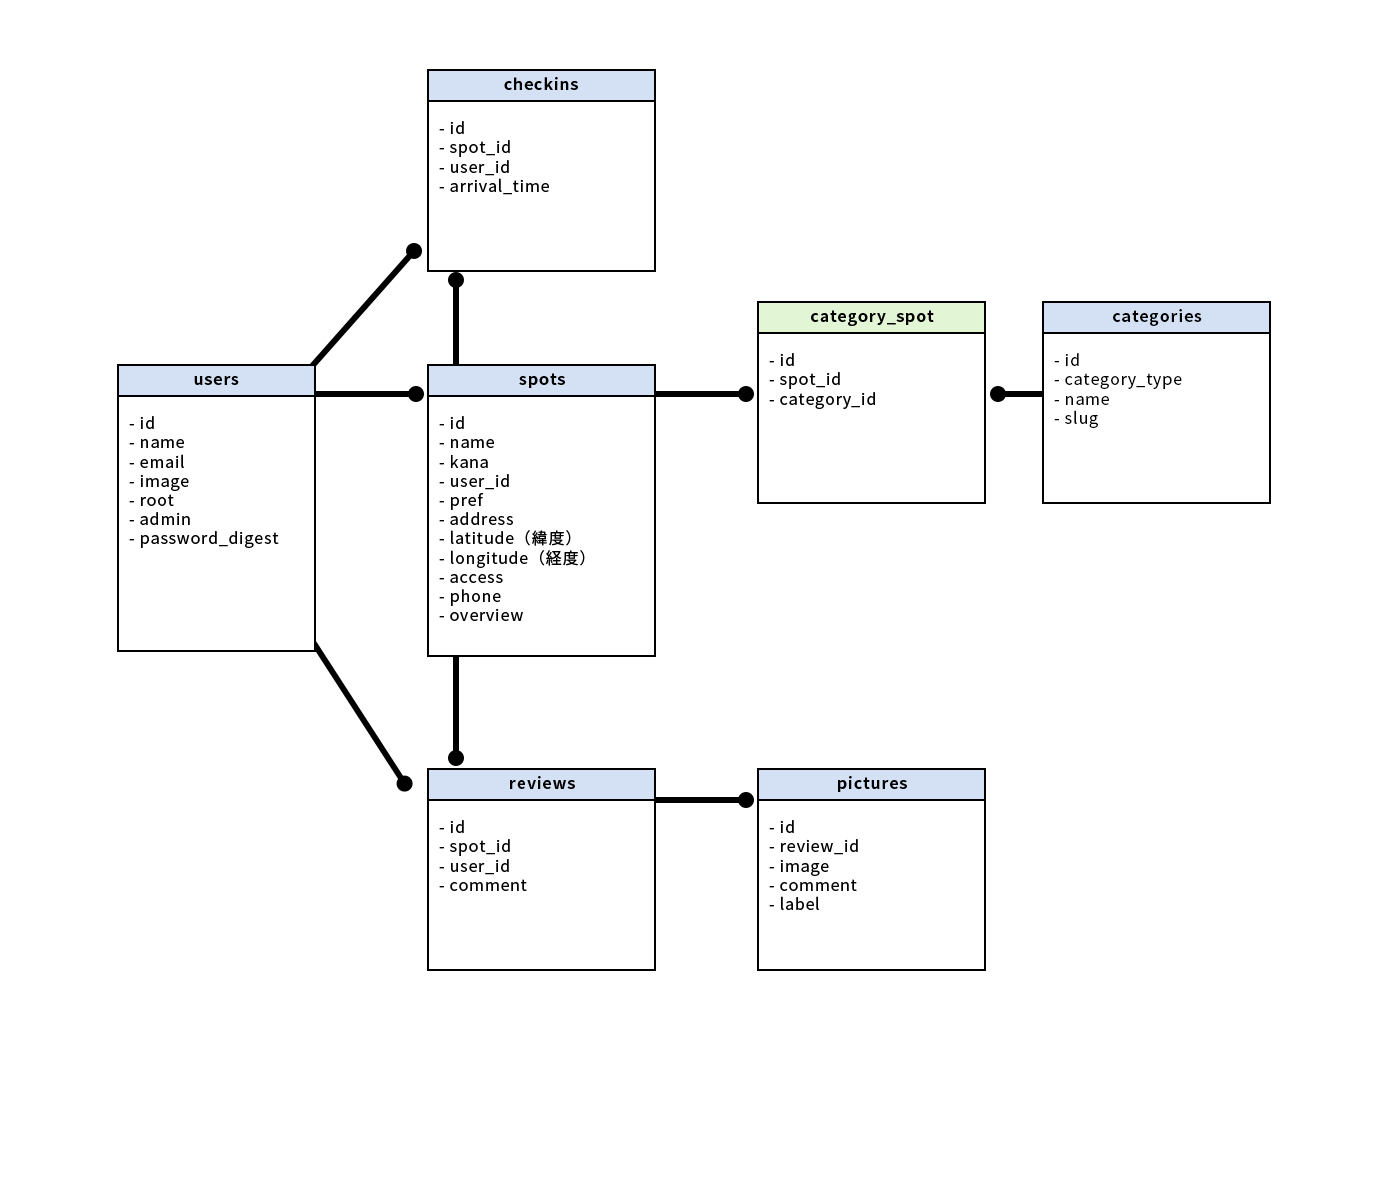
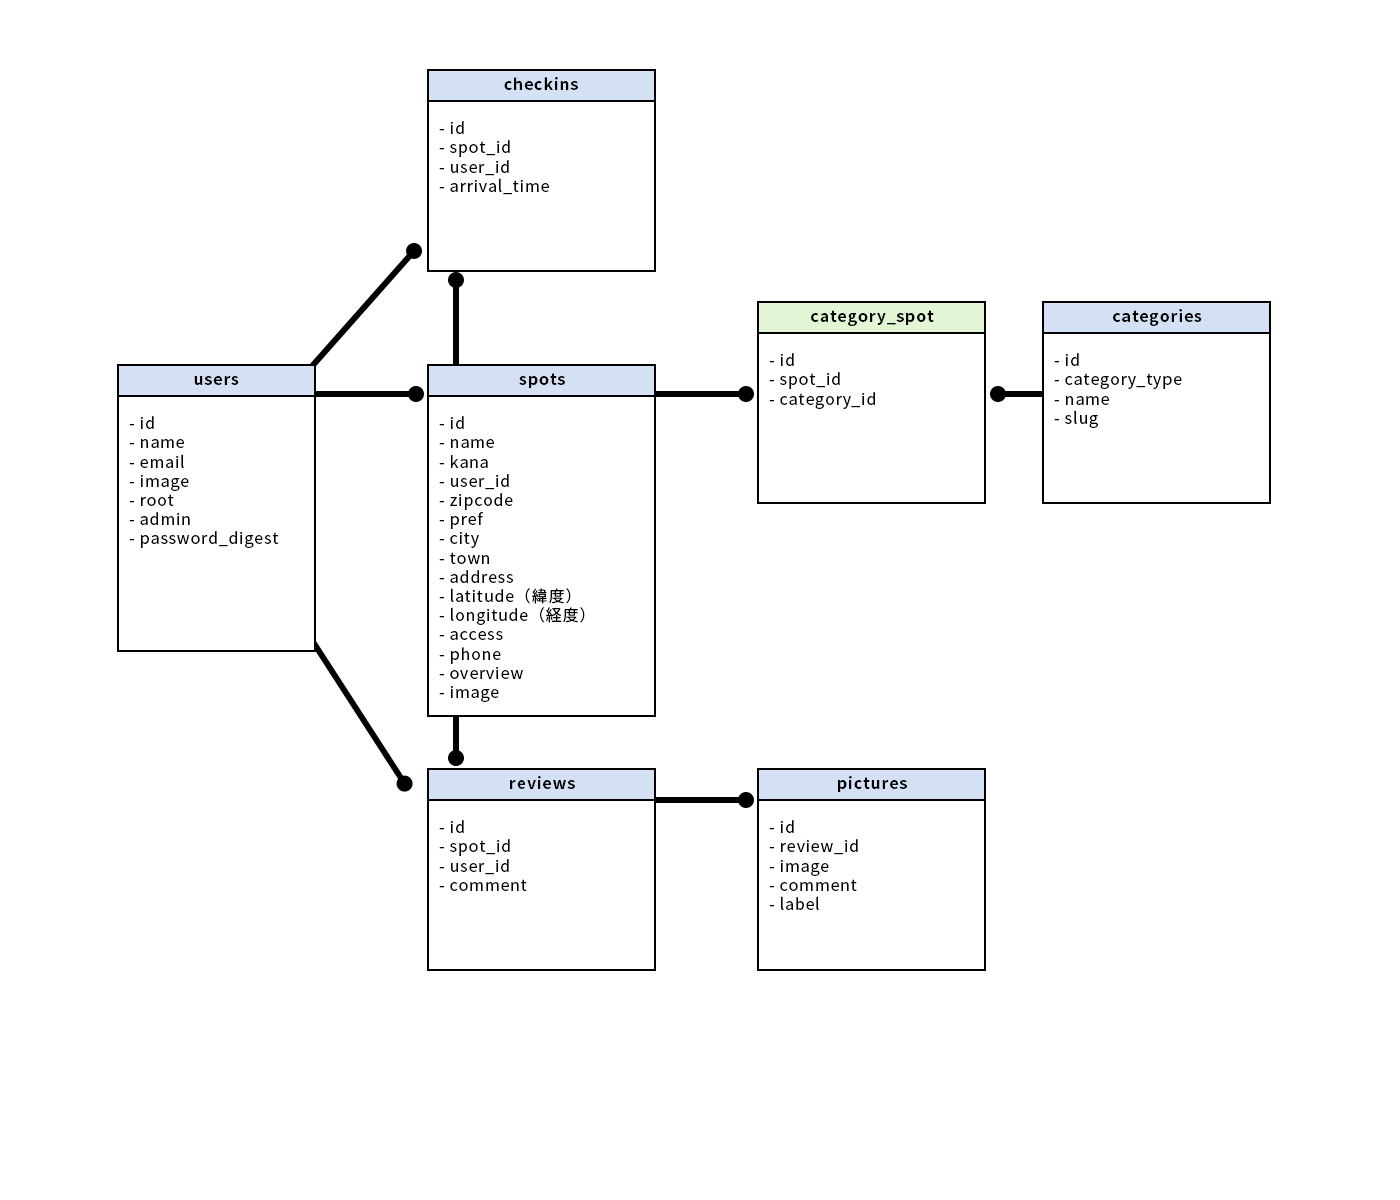
change setting

diff --git a/db/schema.rb b/db/schema.rb
@@ -12,7 +12,7 @@
 
 ActiveRecord::Schema.define(version: 20180930133221) do
 
-  create_table "categories", force: :cascade, options: "ENGINE=InnoDB DEFAULT CHARSET=utf8" do |t|
+  create_table "categories", force: :cascade, options: "ENGINE=InnoDB DEFAULT CHARSET=utf8mb4" do |t|
     t.string "category_type"
     t.string "name"
     t.string "slug"
@@ -20,7 +20,7 @@ ActiveRecord::Schema.define(version: 20180930133221) do
     t.datetime "updated_at", null: false
   end
 
-  create_table "category_spots", force: :cascade, options: "ENGINE=InnoDB DEFAULT CHARSET=utf8" do |t|
+  create_table "category_spots", force: :cascade, options: "ENGINE=InnoDB DEFAULT CHARSET=utf8mb4" do |t|
     t.bigint "spot_id"
     t.bigint "category_id"
     t.datetime "created_at", null: false
@@ -29,7 +29,7 @@ ActiveRecord::Schema.define(version: 20180930133221) do
     t.index ["spot_id"], name: "index_category_spots_on_spot_id"
   end
 
-  create_table "pictures", force: :cascade, options: "ENGINE=InnoDB DEFAULT CHARSET=utf8" do |t|
+  create_table "pictures", force: :cascade, options: "ENGINE=InnoDB DEFAULT CHARSET=utf8mb4" do |t|
     t.string "image"
     t.string "comment"
     t.string "label"
@@ -40,7 +40,7 @@ ActiveRecord::Schema.define(version: 20180930133221) do
     t.index ["review_id"], name: "index_pictures_on_review_id"
   end
 
-  create_table "reviews", force: :cascade, options: "ENGINE=InnoDB DEFAULT CHARSET=utf8" do |t|
+  create_table "reviews", force: :cascade, options: "ENGINE=InnoDB DEFAULT CHARSET=utf8mb4" do |t|
     t.bigint "spot_id"
     t.bigint "user_id"
     t.string "comment"
@@ -50,7 +50,7 @@ ActiveRecord::Schema.define(version: 20180930133221) do
     t.index ["user_id"], name: "index_reviews_on_user_id"
   end
 
-  create_table "spots", force: :cascade, options: "ENGINE=InnoDB DEFAULT CHARSET=utf8" do |t|
+  create_table "spots", force: :cascade, options: "ENGINE=InnoDB DEFAULT CHARSET=utf8mb4" do |t|
     t.string "name"
     t.string "address"
     t.decimal "latitude", precision: 11, scale: 8
@@ -58,7 +58,11 @@ ActiveRecord::Schema.define(version: 20180930133221) do
     t.bigint "user_id"
     t.datetime "created_at", null: false
     t.datetime "updated_at", null: false
+    t.string "zipcode"
     t.string "pref"
+    t.string "city"
+    t.string "town"
+    t.string "image"
     t.string "kana"
     t.string "access"
     t.string "phone"
@@ -66,7 +70,7 @@ ActiveRecord::Schema.define(version: 20180930133221) do
     t.index ["user_id"], name: "index_spots_on_user_id"
   end
 
-  create_table "users", force: :cascade, options: "ENGINE=InnoDB DEFAULT CHARSET=utf8" do |t|
+  create_table "users", force: :cascade, options: "ENGINE=InnoDB DEFAULT CHARSET=utf8mb4" do |t|
     t.string "name"
     t.string "email"
     t.boolean "root"

diff --git a/config/unicorn.rb b/config/unicorn.rb
@@ -2,8 +2,8 @@ worker_processes Integer(ENV["WEB_CONCURRENCY"] || 3)
 timeout 15
 preload_app true
 
-listen File.expand_path('../../tmp/sockets/unicorn.sock', __FILE__)
-pid    File.expand_path('../../tmp/pids/unicorn.pid', __FILE__)
+listen '/home/rails/fav-spots/tmp/sockets/unicorn.sock'
+pid    '/home/rails/fav-spots/tmp/pids/unicorn.pid'
 
 before_fork do |server, worker|
   Signal.trap 'TERM' do
@@ -24,5 +24,5 @@ after_fork do |server, worker|
     ActiveRecord::Base.establish_connection
 end
 
-stderr_path File.expand_path('../../log/unicorn_error.log', __FILE__)
-stdout_path File.expand_path('../../log/unicorn.log', __FILE__)
+stderr_path File.expand_path('log/unicorn_error.log', ENV['RAILS_ROOT'])
+stdout_path File.expand_path('log/unicorn.log', ENV['RAILS_ROOT'])

diff --git a/db/seeds.rb b/db/seeds.rb
@@ -43,5 +43,11 @@ Category.create(name: '服屋', slug: 'cloth ', category_type: 'shopping')
 Category.create(name: '雑貨', slug: 'goods ', category_type: 'shopping')
 Category.create(name: '雑貨', slug: 'goods ', category_type: 'shopping')
 
+Category.create(name: 'ホテル', slug: 'park ', category_type: 'stay')
+Category.create(name: '旅館', slug: 'park ', category_type: 'stay')
+
 Category.create(name: 'アミューズメント', slug: 'amusement ', category_type: 'other')
 Category.create(name: '公園', slug: 'park ', category_type: 'other')
+Category.create(name: 'ドライブ', slug: 'park ', category_type: 'other')
+
+

diff --git a/config/deploy.rb b/config/deploy.rb
@@ -1,14 +1,14 @@
 # config valid for current version and patch releases of Capistrano
 lock '~> 3.11.0'
 
-set :application, 'fav-spots'
-set :repo_url, 'https://github.com/kurotaku/fav-spots.git'
+set :application, 'nyaby'
+set :repo_url, 'https://github.com/kurotaku/nyaby.git'
 
 # Default branch is :master
 # ask :branch, `git rev-parse --abbrev-ref HEAD`.chomp
 
 # Default deploy_to directory is /var/www/my_app_name
-set :deploy_to, '/home/rails/fav-spots'
+set :deploy_to, '/home/rails/nyaby'
 
 # Default value for :format is :airbrussh.
 # set :format, :airbrussh

diff --git a/app/controllers/spots_controller.rb b/app/controllers/spots_controller.rb
@@ -96,7 +96,7 @@ class SpotsController < ApplicationController
   end
   
   def spot_params
-    params.require(:spot).permit(:name, :kana, :address, :access, :phone, :pref, :latitude, :longitude, :overview, :since, :sect, :deity, { :category_ids=> []})
+    params.require(:spot).permit(:name, :kana, :address, :access, :phone, :zipcode, :pref, :city, :town, :latitude, :longitude, :overview, :image, { :category_ids=> []})
   end
   
 end

diff --git a/db/migrate/20180915150015_add_pref_to_spots.rb b/db/migrate/20180915150015_add_pref_to_spots.rb
@@ -1,5 +1,9 @@
 class AddPrefToSpots < ActiveRecord::Migration[5.1]
   def change
+    add_column :spots, :zipcode, :string
     add_column :spots, :pref, :string
+    add_column :spots, :city, :string
+    add_column :spots, :town, :string
+    add_column :spots, :image, :string
   end
 end

diff --git a/app/models/spot.rb b/app/models/spot.rb
@@ -1,9 +1,6 @@
 class Spot < ApplicationRecord
   validates :name, presence: true, length: { maximum: 50 }
-  validates :pref, presence: true
   validates :address, presence: true, length: { maximum: 50 }
-
-
 
   belongs_to :user
   
